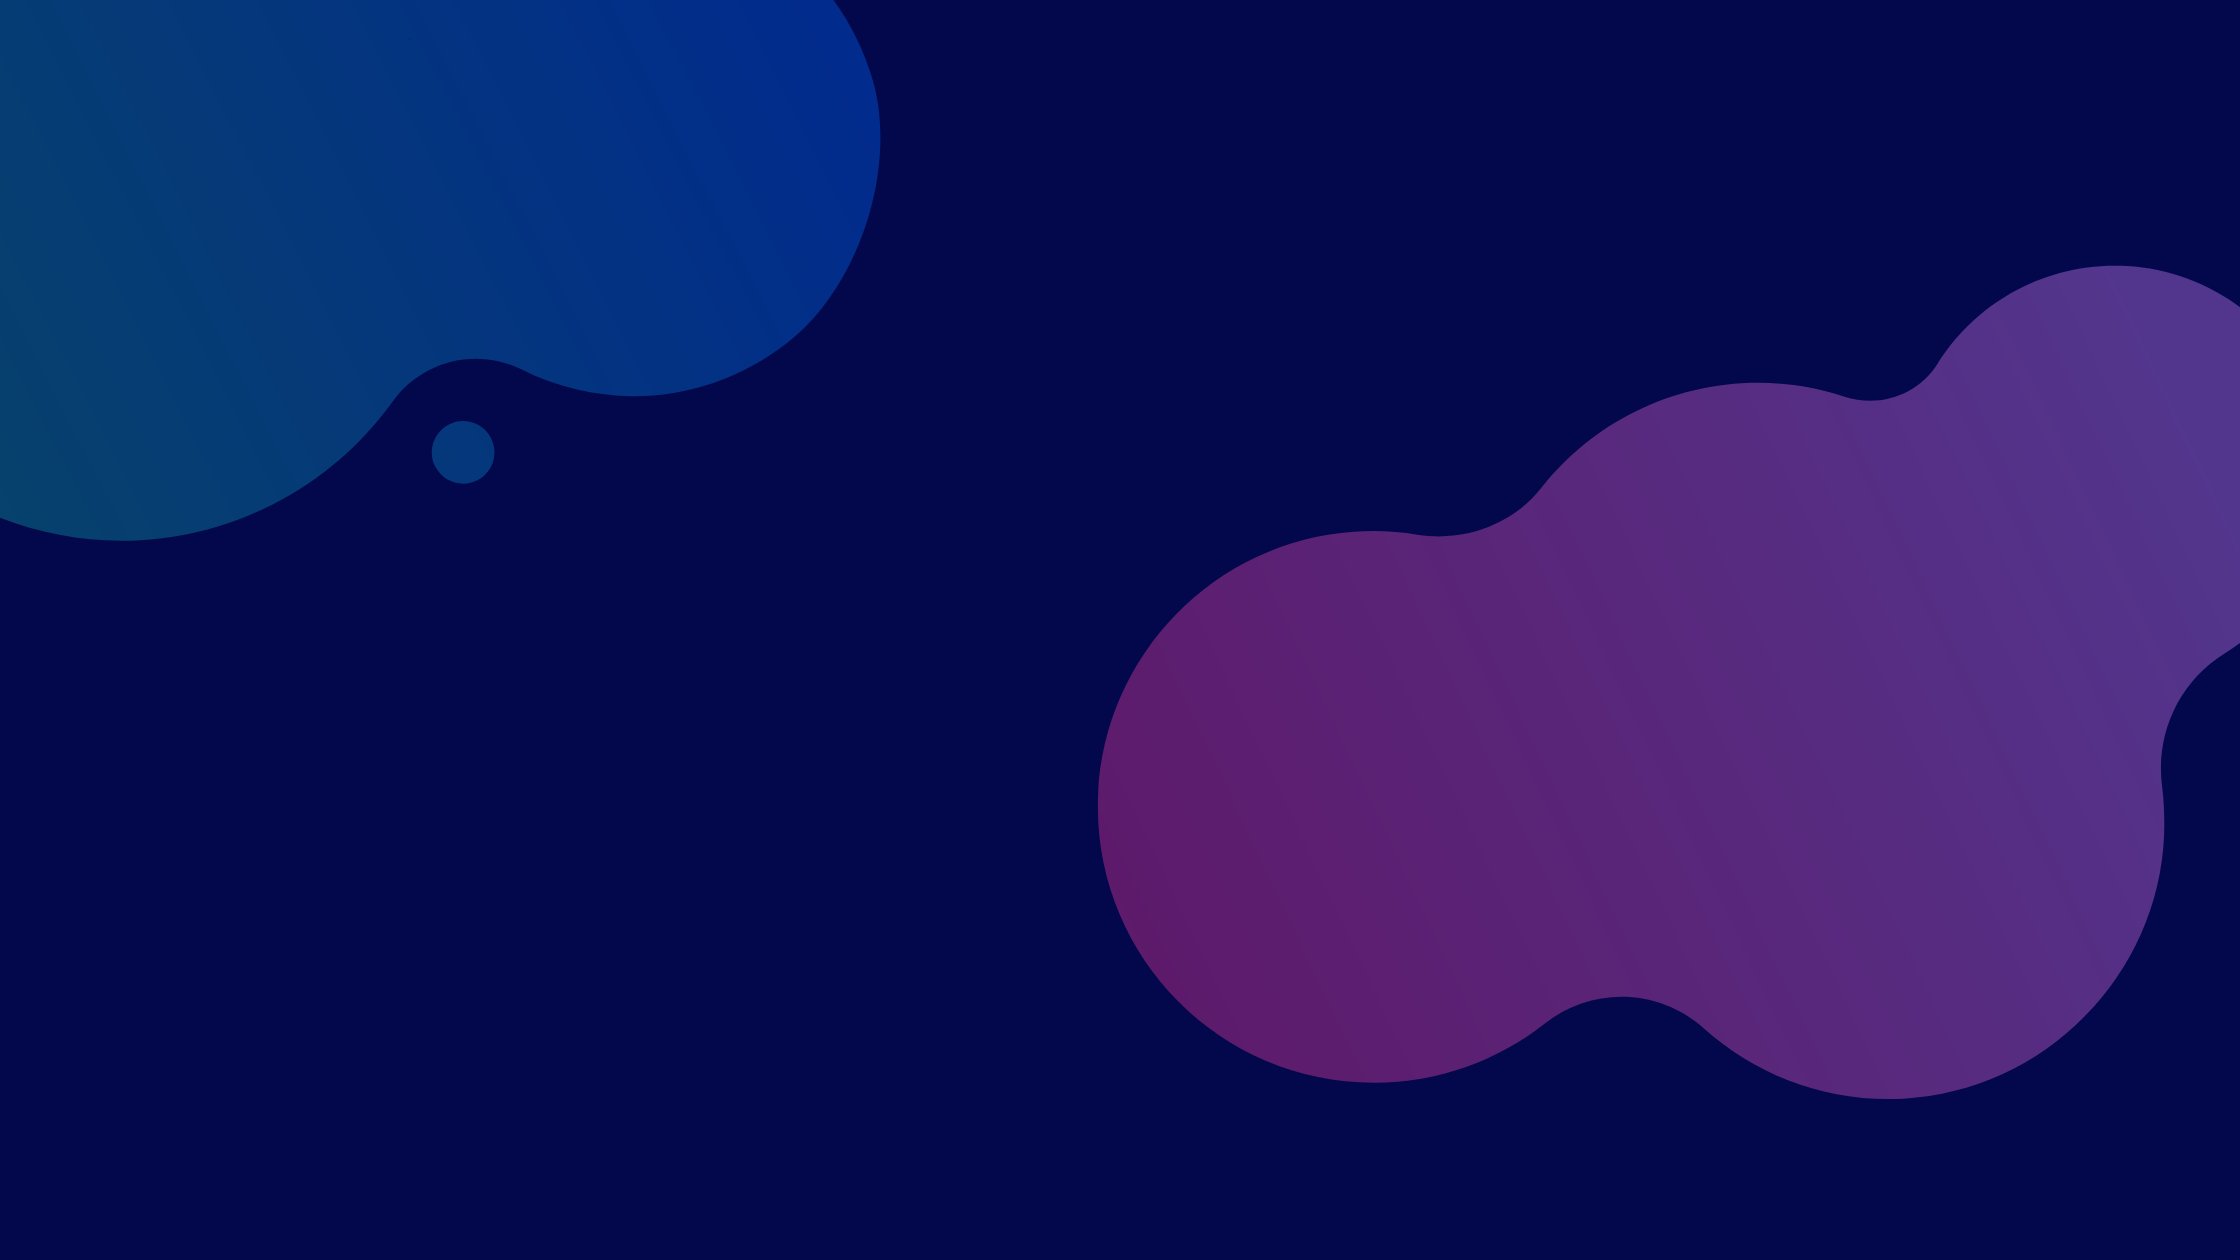
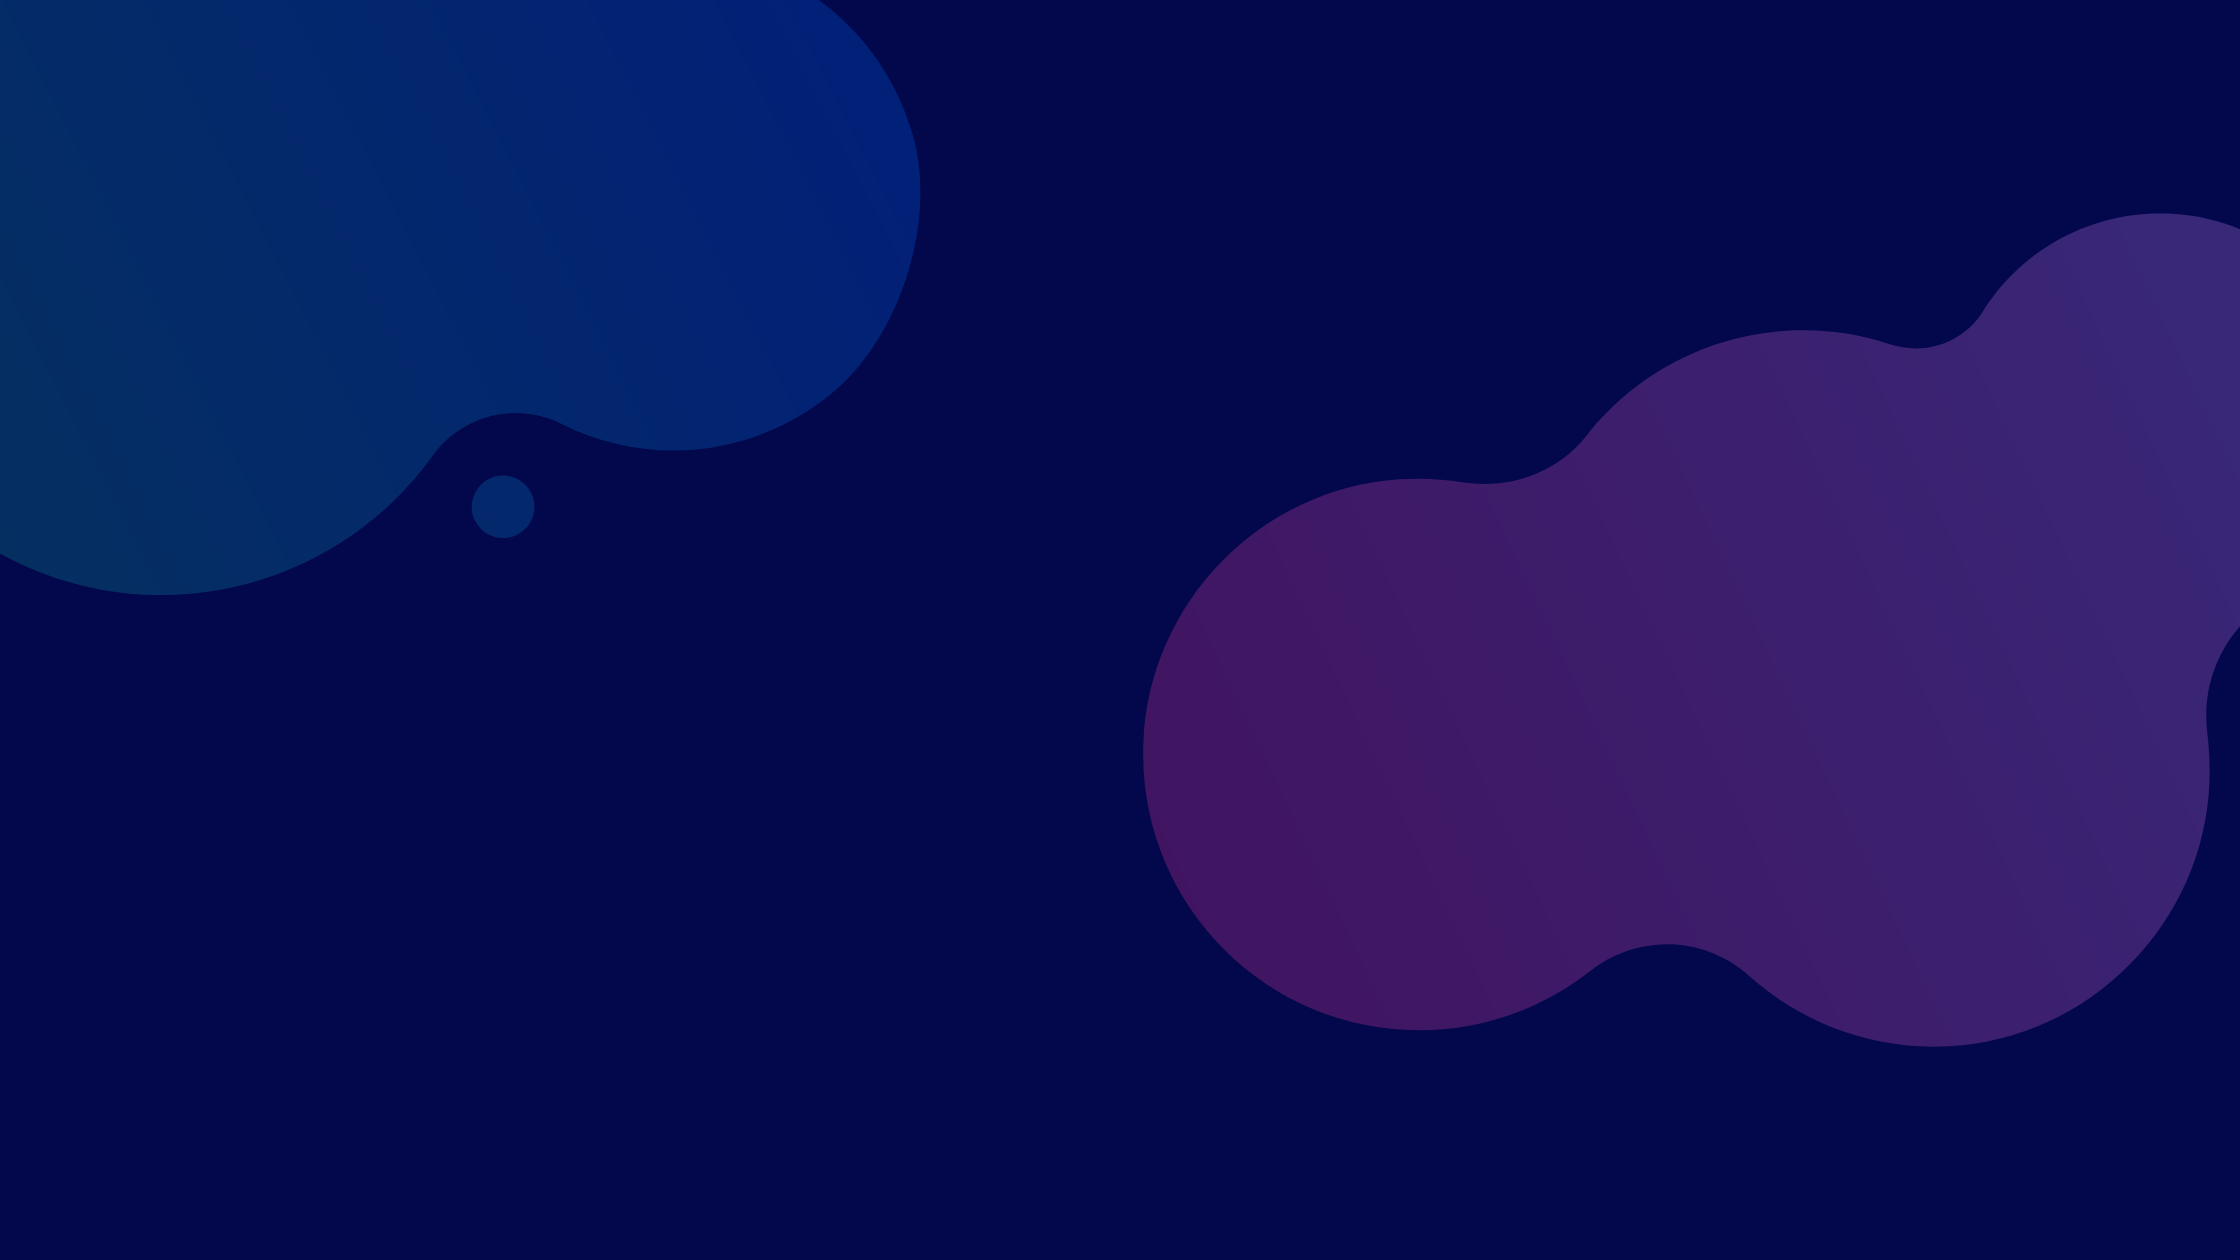
adding illustrations

Changed region(s): [[0.4688, 0.1548, 1.0, 0.8976], [0.0, 0.031, 0.4375, 0.4952]]

diff --git a/react-portfolio/src/components/Home/Logo/index.js b/react-portfolio/src/components/Home/Logo/index.js
@@ -1,12 +1,12 @@
-// import './../Logo/index.scss'
-// //import LogoS from './../../assets/images/logo-s.png'
+import './../Logo/index.scss'
+import LogoS from './../../../assets/images/big_logo.png'
 
-// const Logo = () => {
-//   return (
-//     <div className="logo-container">
-//       <img src="" alt="C" className="solid-logo" />
-//     </div>
-//   )
-// }
+const Logo = () => {
+  return (
+    <div className="logo-container">
+      <img src={LogoS} alt="C" className="solid-logo" />
+    </div>
+  )
+}
 
-// export default Logo
+export default Logo

diff --git a/react-portfolio/src/components/Home/index.js b/react-portfolio/src/components/Home/index.js
@@ -2,7 +2,7 @@ import { useEffect, useState } from 'react'
 import Loader from 'react-loaders'
 import { Link } from 'react-router-dom'
 import AnimatedLetters from '../AnimatedLetters'
-//import Logo from '../Home/Logo'
+import Logo from '../Home/Logo'
 import LogoTitle from './../../assets/images/logo-s.png'
 import './../Home/index.scss'
 
@@ -54,7 +54,7 @@ const Home = () => {
             MY WORK
           </Link>
         </div>
-        {/* <Logo /> */}
+        <Logo />
       </div>
       <Loader type="pacman" />
     </>

diff --git a/react-portfolio/src/components/Home/index.scss b/react-portfolio/src/components/Home/index.scss
@@ -124,9 +124,24 @@ h2 {
       width: 125px;
     }
 
-    // .logo-container {
-    //   display: none;
+    .logo-container {
+      position: relative;
+      width: 100px;
+      height: auto;
+      top: 50px;
+      right: 0;
+      box-sizing: border-box;
+      margin: auto;
+      left: 0;
+    }
 
-    // }
+    .logo-container svg {
+      position: absolute;
+      top: auto;
+      right: auto;
+      bottom: auto;
+      left: 0;
+      margin: auto;
+    }
   }
 }

diff --git a/react-portfolio/src/components/Home/Logo/index.scss b/react-portfolio/src/components/Home/Logo/index.scss
@@ -1,0 +1,23 @@
+.logo-container {
+  z-index: 0;
+  width: 400px;
+  height: 400px;
+  position: absolute;
+  top: 0;
+  right: 15%;
+  bottom: 0;
+  left: auto;
+  margin: auto;
+
+  .solid-logo {
+    position: absolute;
+    top: auto;
+    right: auto;
+    bottom: auto;
+    left: 0;
+    margin: auto;
+    width: 130;
+    z-index: 1;
+    animation: fadeInRight 1s 1.7s backwards;
+  }
+}

diff --git a/react-portfolio/src/index.css b/react-portfolio/src/index.css
@@ -9,6 +9,9 @@ body {
   -webkit-font-smoothing: antialiased;
   -moz-osx-font-smoothing: grayscale;
   background-size: cover;
+  background-repeat: no-repeat;
+  background-position: center center;
+  background-attachment: fixed;
   background-image: url('./assets/images/background.png');
   /* background: #334eb1; */
   overflow: hidden;
